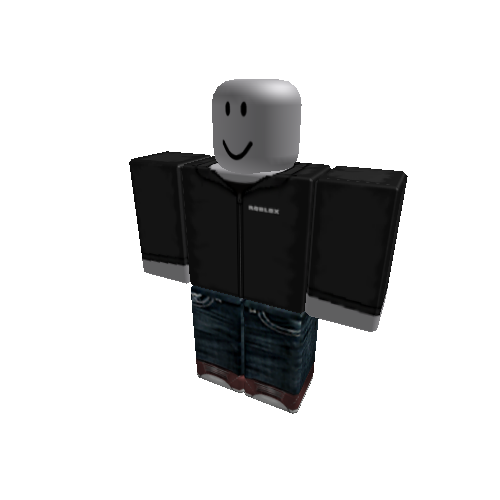
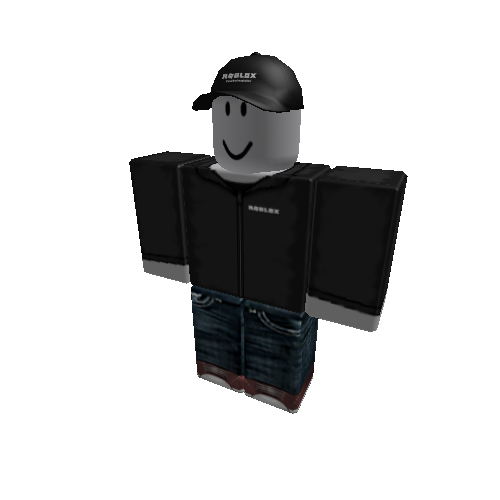
Got accesories to work!
Their dependencies (like meshid and textureid) now resolve into something that actually works.

Changed region(s): [[0.39, 0.09, 0.63, 0.24]]

diff --git a/render.php b/render.php
@@ -1,5 +1,7 @@
 <?php
 
+// fix so rcc doesnt return empty by fixing the lua.
+
 require_once __DIR__ . "/PHP-RCCServiceSoap/Assemblies/Roblox/Grid/Rcc/Job.php";
 require_once __DIR__ . "/PHP-RCCServiceSoap/Assemblies/Roblox/Grid/Rcc/LuaType.php";
 require_once __DIR__ . "/PHP-RCCServiceSoap/Assemblies/Roblox/Grid/Rcc/LuaValue.php";
@@ -199,7 +201,7 @@ function resolveAssetDependencies(&$data, $sourceName) {
 
 
     preg_match_all(
-        '/(?:https?:\/\/[^<"\']*roblox\.com\/asset\/\?id=|rbxassetid:\/\/)(\d+)/i',
+        '/(?:https?:\/\/[^<"\']*roblox\.com\/asset\/?\?id=|rbxassetid:\/\/)(\d+)/i',
         $data,
         $matches
     );
@@ -255,7 +257,7 @@ function resolveAssetDependencies(&$data, $sourceName) {
 
 
         $data = preg_replace(
-            '/https?:\/\/[^<"\']*roblox\.com\/asset\/\?id=' . preg_quote($assetId, '/') . '/i',
+            '/https?:\/\/[^<"\']*roblox\.com\/asset\/?\?id=' . preg_quote($assetId, '/') . '/i',
             'rbxasset://' . $dependencyFileName,
             $data
         );
@@ -287,6 +289,7 @@ foreach ($avatar["assets"] ?? [] as $asset) {
     }
 
 
+	// 'Whitelisted' assets.
     if (
         $assetType !== "Shirt" &&
         $assetType !== "Pants" &&
@@ -341,17 +344,12 @@ foreach ($avatar["assets"] ?? [] as $asset) {
     $rccAssetFiles[] = $rccAssetPath;
 
 
-    // if (
-    //     $assetType === "Pants" ||
-    //     $assetType === "Shirt" ||
-    //     $assetType === "Hat"
-    // ) {
-    //     $appearanceFiles[] = "rbxasset://" . $xmlFileName;
-    // }
-
-    if ($assetType === "Pants") {
-        $appearanceFiles[] =
-            "rbxasset://" . $xmlFileName;
+    if (
+        $assetType === "Pants" ||
+        $assetType === "Shirt" ||
+        $assetType === "Hat"
+    ) {
+        $appearanceFiles[] = "rbxasset://" . $xmlFileName;
     }
 
 
@@ -377,8 +375,8 @@ echo "Starting RCC..." . PHP_EOL;
 
 
 $rcc = new RCCServiceSoap("127.0.0.1", 64989);
-
 $job = new Job("AvatarRender_" . $userId);
+
 
 $wearableFiles = [];
 
@@ -393,16 +391,11 @@ foreach ($avatar["assets"] ?? [] as $asset) {
     }
 
 
-    // if (
-    //     $assetType === "Pants" ||
-    //     $assetType === "Shirt" ||
-    //     $assetType === "Hat"
-    // ) {
-    //     $wearableFiles[] =
-    //         "rbxasset://" . $assetId . "_" . $versionId . ".rbxmx";
-    // }
-
-    if ($assetType === "Pants") {
+    if (
+        $assetType === "Pants" ||
+        $assetType === "Shirt" ||
+        $assetType === "Hat"
+    ) {
         $wearableFiles[] =
             "rbxasset://" . $assetId . "_" . $versionId . ".rbxmx";
     }
@@ -413,7 +406,8 @@ $wearableFilesLua = json_encode($wearableFiles);
 
 
 $scriptText = '
-print("RCC SCRIPT START")
+print("RCC SCRIPT STARTED")
+
 game:GetService("ContentProvider"):SetBaseUrl("http://www.roblox.com")
 game:GetService("ScriptContext").ScriptsDisabled = true
 
@@ -421,50 +415,40 @@ local Players = game:GetService("Players")
 local ThumbnailGenerator = game:GetService("ThumbnailGenerator")
 
 local player = Players:CreateLocalPlayer(1)
-
-print("Player created")
-
 player:LoadCharacter()
-
-print("Character loaded")
-
 local character = player.Character
 
+print("Character:", character)
+
+print("BEFORE GETOBJECTS")
+
 local appearanceFiles = {
-	"rbxasset://301811432_10151325111.rbxmx",
-	"rbxasset://607785314_955993454.rbxmx",
-	"rbxasset://607702162_1171146069.rbxmx"
+    "rbxasset://301811432_10151325111.rbxmx", --pants
+    "rbxasset://607785314_955993454.rbxmx", --shirt
+	"rbxasset://607702162_1171146069.rbxmx" -- left arm or hat?
 }
 
-print("Appearance files:", #appearanceFiles)
-
 for _, assetFile in pairs(appearanceFiles) do
-	print("Loading asset:", assetFile)
+    print("Loading:", assetFile)
 
-	local objects = game:GetObjects(assetFile)
+    local objects = game:GetObjects(assetFile)
 
-	print("Objects loaded:", #objects)
+    print("Object count:", #objects)
 
-	for _, object in pairs(objects) do
-		print("Loaded object:", object.ClassName, object.Name)
-		print("Parent before:", object.Parent)
+    for _, object in pairs(objects) do
+        print("Object:", object.ClassName, object.Name)
 
-		object.Parent = character
-
-		print("Parent after:", object.Parent)
-	end
+        object.Parent = character
+    end
 end
 
-print("Assets loaded")
+print("AFTER GETOBJECTS")
 
-local image = ThumbnailGenerator:Click(
-	"PNG",
-	500,
-	500,
-	true
-)
+print("BEFORE THUMBNAIL")
 
-print("Thumbnail generated")
+local image = ThumbnailGenerator:Click("PNG",500,500,true)
+
+print("AFTER THUMBNAIL")
 
 return image
 ';
@@ -478,7 +462,6 @@ $script = new ScriptExecution(
 
 $result = $rcc->BatchJob($job, $script);
 
-
 if (is_soap_fault($result)) {
     echo "SOAP ERROR" . PHP_EOL;
 
@@ -486,7 +469,6 @@ if (is_soap_fault($result)) {
 
     exit;
 }
-
 
 if (!$result) {
     echo "RCC returned an empty result." . PHP_EOL;
@@ -496,7 +478,6 @@ if (!$result) {
 
 
 $imageData = base64_decode($result);
-
 if ($imageData === false) {
     die("Failed to decode image." . PHP_EOL);
 }
@@ -506,7 +487,7 @@ file_put_contents($outputPath, $imageData);
 
 
 echo PHP_EOL;
-echo "Render complete!" . PHP_EOL;
+echo "Render complete!!" . PHP_EOL;
 echo "Saved: " . $outputPath . PHP_EOL;
 
 
